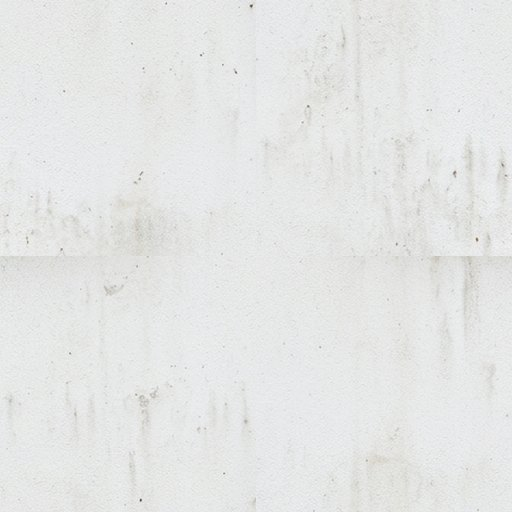
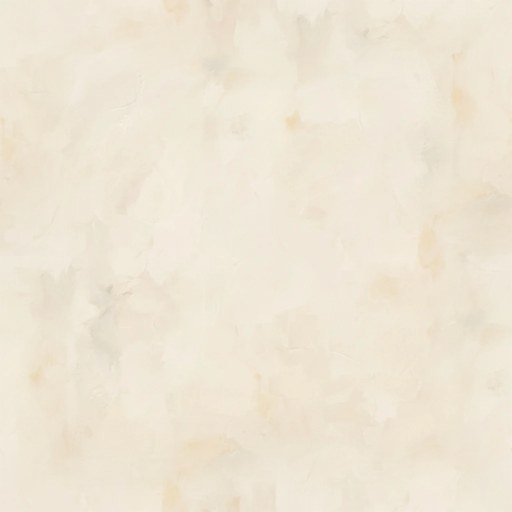
畫面第二批：屋瓦、白牆、木板、土路、草地全部換成手繪風貼圖（Gemini 繪製＋無縫處理：週期裁切／錯位混合），城外與公園改手繪草地；路邊草叢調亮
Claude-Session: https://claude.ai/code/session_015uMb1f52jTuSYsWXuczzAi

diff --git a/js/game.js b/js/game.js
@@ -5,15 +5,15 @@ import { EffectComposer } from 'three/addons/postprocessing/EffectComposer.js';
 import { RenderPass } from 'three/addons/postprocessing/RenderPass.js';
 import { UnrealBloomPass } from 'three/addons/postprocessing/UnrealBloomPass.js';
 import { OutputPass } from 'three/addons/postprocessing/OutputPass.js';
-import { buildWorld, walkable, heightAt } from './world.js?v=202611181601';
-import { RIDE_Y } from './chara.js?v=202611181601';
-import { Chara, randomLook, KIMONO, OBI, PATTERNS, HAIRS, SKINS, EYES, BROWS, MOUTHS, CHEEKS, MOLES, FACES, OUTFITS, OUTER, FEATS } from './chara.js?v=202611181601';
-import { SHOPS, FORTUNE, ACC, SLOT_NAME } from './shops.js?v=202611181601';
-import { initMatsuri, updMatsuri, FEST, nextFestIn } from './matsuri.js?v=202611181601';
-import { Net } from './net.js?v=202611181601';
-import { cleanText } from './filter.js?v=202611181601';
-import { SND } from './audio.js?v=202611181601';
-import * as TX from './tex.js?v=202611181601';
+import { buildWorld, walkable, heightAt } from './world.js?v=202611181612';
+import { RIDE_Y } from './chara.js?v=202611181612';
+import { Chara, randomLook, KIMONO, OBI, PATTERNS, HAIRS, SKINS, EYES, BROWS, MOUTHS, CHEEKS, MOLES, FACES, OUTFITS, OUTER, FEATS } from './chara.js?v=202611181612';
+import { SHOPS, FORTUNE, ACC, SLOT_NAME } from './shops.js?v=202611181612';
+import { initMatsuri, updMatsuri, FEST, nextFestIn } from './matsuri.js?v=202611181612';
+import { Net } from './net.js?v=202611181612';
+import { cleanText } from './filter.js?v=202611181612';
+import { SND } from './audio.js?v=202611181612';
+import * as TX from './tex.js?v=202611181612';
 
 const SERVER = new URLSearchParams(location.search).has('test') ? '' : (new URLSearchParams(location.search).get('server') || window.EDO_SERVER || '');
 const QS = new URLSearchParams(location.search);
@@ -907,7 +907,7 @@ function updRide(dt) {
 // 路邊花草：沿著可走範圍的邊緣（牆腳、樹下、路緣）自動長出；草一批、花一批＝只多 2 次繪製、不投影
 function floraTex(kind) {
   const c = document.createElement('canvas'); c.width = 128; c.height = 128; const g = c.getContext('2d');
-  if (kind === 'grass') { for (let i = 0; i < 26; i++) { const x = 14 + Math.random() * 100, h = 50 + Math.random() * 70, lean = (Math.random() - .5) * 40; const gr = g.createLinearGradient(0, 128, 0, 128 - h); gr.addColorStop(0, '#3f6a2a'); gr.addColorStop(1, Math.random() < .5 ? '#a8d468' : '#8cc457');
+  if (kind === 'grass') { for (let i = 0; i < 26; i++) { const x = 14 + Math.random() * 100, h = 50 + Math.random() * 70, lean = (Math.random() - .5) * 40; const gr = g.createLinearGradient(0, 128, 0, 128 - h); gr.addColorStop(0, '#5a8a36'); gr.addColorStop(1, Math.random() < .5 ? '#c4e67a' : '#a6d462');
       g.fillStyle = gr; g.beginPath(); g.moveTo(x - 4, 128); g.quadraticCurveTo(x + lean * .3, 128 - h * .6, x + lean, 128 - h); g.quadraticCurveTo(x + lean * .3 + 2, 128 - h * .5, x + 4, 128); g.fill(); } }
   else { g.fillStyle = '#4f7a34'; for (let i = 0; i < 9; i++) { const x = 20 + Math.random() * 88; g.fillRect(x, 70 + Math.random() * 20, 3, 60); }
     for (let i = 0; i < 6; i++) { const x = 22 + Math.random() * 84, y = 34 + Math.random() * 44; g.fillStyle = '#ffffff'; for (let p = 0; p < 5; p++) { const a = p / 5 * 6.283; g.beginPath(); g.arc(x + Math.cos(a) * 7, y + Math.sin(a) * 7, 6, 0, 7); g.fill(); } g.fillStyle = '#f2c94c'; g.beginPath(); g.arc(x, y, 4, 0, 7); g.fill(); } }
@@ -1636,8 +1636,8 @@ if (isTouch) document.body.classList.add('touch');
   // 全部素材同時下載（原本分三批依序等）；花魁貼圖只有 GM 用，背景載入不擋開場
   Promise.all([loadImg('img/tex/oiran_out.jpg'), loadImg('img/tex/oiran_in.jpg')]).then(([a, b]) => { TX.IMG.oiranOut = a; TX.IMG.oiranIn = b; if (G.me && G.me.gm) G.me.setLook(G.look); });
   const L = (pre, n, ext) => Promise.all([...Array(n).keys()].map(i => loadImg(`img/tex/${pre}${i}.${ext}`)));
-  const [art, ey, br, mo, mt, ob, exe, hairImg, bpat, feat] = await Promise.all([Promise.all(['roof', 'plaster', 'wood', 'dirt'].map(k => loadImg('img/tex/' + k + '.jpg')).concat([...Array(11).keys()].map(i => loadImg('img/tex/kanban' + i + '.png')))), L('eyes', 11, 'png'), L('brows', 8, 'png'), L('mouths', 8, 'png'), L('motif', 24, 'png'), L('obi', 6, 'jpg'), L('eyex', 4, 'png'), loadImg('img/tex/hair.jpg'), L('basepat', 4, 'png'), L('feat', 4, 'png')]);
-  ['roof', 'plaster', 'wood', 'dirt'].forEach((k, i) => TX.IMG[k] = art[i]); TX.IMG.kanban = art.slice(4);
+  const [art, ey, br, mo, mt, ob, exe, hairImg, bpat, feat] = await Promise.all([Promise.all(['roof', 'plaster', 'wood', 'dirt', 'grass'].map(k => loadImg('img/tex/' + k + '.jpg')).concat([...Array(11).keys()].map(i => loadImg('img/tex/kanban' + i + '.png')))), L('eyes', 11, 'png'), L('brows', 8, 'png'), L('mouths', 8, 'png'), L('motif', 24, 'png'), L('obi', 6, 'jpg'), L('eyex', 4, 'png'), loadImg('img/tex/hair.jpg'), L('basepat', 4, 'png'), L('feat', 4, 'png')]);
+  ['roof', 'plaster', 'wood', 'dirt', 'grass'].forEach((k, i) => TX.IMG[k] = art[i]); TX.IMG.kanban = art.slice(5);
   if (ey.every(Boolean) && br.every(Boolean) && mo.every(Boolean)) TX.IMG.face = { eyes: ey, brows: br, mouths: mo, ex: exe.every(Boolean) ? exe : null, feat: feat.every(Boolean) ? feat : null };
   if (hairImg) TX.IMG.hair = hairImg; if (bpat.every(Boolean)) TX.IMG.basepat = bpat;
   if (mt.every(Boolean)) TX.IMG.motifs = mt; if (ob.every(Boolean)) TX.IMG.obi = ob;

diff --git a/js/world.js b/js/world.js
@@ -1,11 +1,11 @@
 // 江戶町 3D 世界
 import * as THREE from 'three';
 import { mergeGeometries } from 'three/addons/utils/BufferGeometryUtils.js';
-import * as TX from './tex.js?v=202611181601';
-import { SHOPS, STREET } from './shops.js?v=202611181601';
-import { buildTemple } from './temple.js?v=202611181601';
-import { buildMeisho, KINKAKU_POND } from './meisho.js?v=202611181601';
-import { buildMeisho2, walkSouth } from './meisho2.js?v=202611181601';
+import * as TX from './tex.js?v=202611181612';
+import { SHOPS, STREET } from './shops.js?v=202611181612';
+import { buildTemple } from './temple.js?v=202611181612';
+import { buildMeisho, KINKAKU_POND } from './meisho.js?v=202611181612';
+import { buildMeisho2, walkSouth } from './meisho2.js?v=202611181612';
 
 const PI = Math.PI;
 export const ARCH = x => (x > 110 && x < 140) ? 1.7 * Math.sin(PI * (x - 110) / 30) : 0;

diff --git a/index.html b/index.html
@@ -360,6 +360,6 @@ body.touch #held{left:calc(12px + var(--sl));bottom:auto;top:calc(100px + var(--
 </div></div>
 <div id="toast"></div>
 <script>addEventListener("error",e=>{const d=document.getElementById("loading");d.classList.remove("hide");d.style.fontSize="16px";d.textContent="錯誤："+e.message+" @"+(e.filename||"").split("/").pop()+":"+e.lineno});addEventListener("unhandledrejection",e=>{const d=document.getElementById("loading");d.classList.remove("hide");d.style.fontSize="16px";d.textContent="錯誤："+(e.reason&&e.reason.stack||e.reason)})</script>
-<script type="module" src="js/game.js?v=202611181601"></script>
+<script type="module" src="js/game.js?v=202611181612"></script>
 </body>
 </html>

diff --git a/js/tex.js b/js/tex.js
@@ -72,6 +72,7 @@ export function shoji(key = 'shoji') {
 export function ground(key = 'ground') {
   if (cache[key]) return cache[key];
   if (IMG.dirt && key === 'dirt') return cache[key] = fromImg(IMG.dirt, '#d8cfc0', .5);
+  if (IMG.grass && key === 'g2') return cache[key] = fromImg(IMG.grass, null); // 手繪草地
   const [c, g] = cv(512, 512); const r = rnd(21);
   g.fillStyle = '#9a8566'; g.fillRect(0, 0, 512, 512);
   for (let i = 0; i < 30; i++) { g.fillStyle = `rgba(${r() > .5 ? '80,60,40' : '190,170,140'},${.06 + r() * .06})`; g.beginPath(); g.ellipse(r() * 512, r() * 512, 30 + r() * 90, 20 + r() * 60, r() * 3, 0, 7); g.fill(); }

diff --git a/js/meisho.js b/js/meisho.js
@@ -1,7 +1,7 @@
 // 江戶町 名所：雷門、海上大鳥居（嚴島）、千本鳥居（伏見稻荷）、金閣寺（鹿苑寺）、五重塔
 // 靜態物件全部 bake 進合併網格（不增加繪製次數）；走近按 E 有特寫與介紹
 import * as THREE from 'three';
-import { hipRoof } from './temple.js?v=202611181601';
+import { hipRoof } from './temple.js?v=202611181612';
 const PI = Math.PI;
 
 export const KINKAKU_POND = { x: 180, z: 78, rx: 21, rz: 15 }; // 金閣寺鏡湖池（不可走入）

diff --git a/js/meisho2.js b/js/meisho2.js
@@ -1,7 +1,7 @@
 // 江戶町 名所南區（神社南門出去）：江戶城天守、不忍池弁天堂、歌舞伎中村座、回向院相撲土俵
 // 靜態物件全部 bake 進合併網格；走近按 E 有特寫與介紹
 import * as THREE from 'three';
-import { hipRoof } from './temple.js?v=202611181601';
+import { hipRoof } from './temple.js?v=202611181612';
 const PI = Math.PI;
 
 export const SHINOBAZU = { x: -122, z: 102, rx: 15, rz: 11, isl: 4.6 }; // 不忍池（中島可走、北側石橋）

diff --git a/js/chara.js b/js/chara.js
@@ -1,6 +1,6 @@
 // 江戶人物（程式建模 v2）：有膝蓋的雙腿、上身＋下襬、細緻臉部、和服袖、足袋木屐、髮型、配件、花魁
 import * as THREE from 'three';
-import * as TX from './tex.js?v=202611181601';
+import * as TX from './tex.js?v=202611181612';
 import { mergeGeometries } from '../vendor/addons/utils/BufferGeometryUtils.js';
 
 export const KIMONO = [
